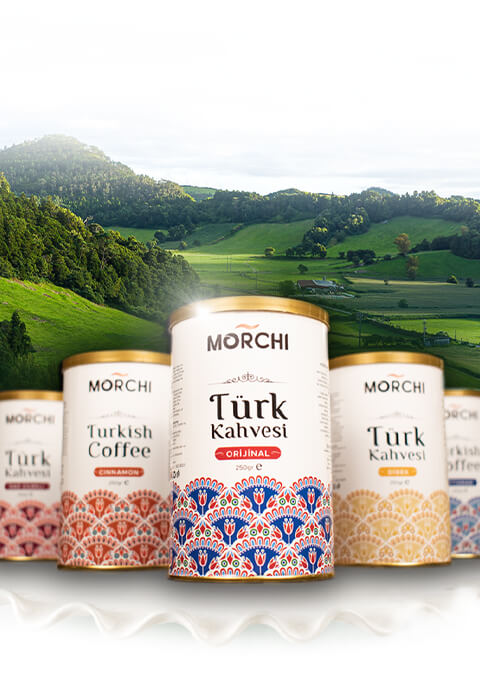
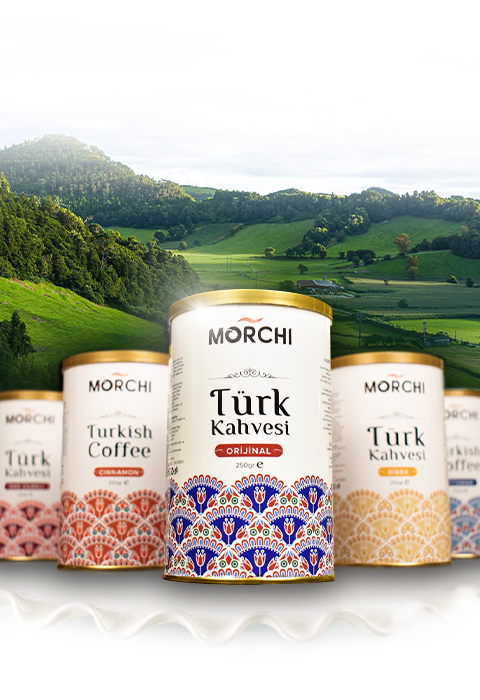
add map line

diff --git a/morchi/assets/css/style.css b/morchi/assets/css/style.css
@@ -852,12 +852,13 @@ img {
 .contact-image::after {
     content: '';
     position: absolute;
-    top: 0;
+    transform: rotate(180deg);
+    top: -1.0%;
     right: 0;
     left: 0;
     width: 100%;
     height: 30px;
-    background: url(../img/header.png);
+    background: url(../img/map-line.png);
     background-repeat: no-repeat;
     background-size: 100% 95%;
     z-index: 1;
@@ -866,13 +867,12 @@ img {
 .contact-image::before {
     content: '';
     position: absolute;
-    transform: rotate(180deg);
     bottom: -5%;
     right: 0;
     left: 0;
     width: 100%;
     height: 30px;
-    background: url(../img/header.png);
+    background: url(../img/map-line.png);
     background-repeat: no-repeat;
     background-size: 100% 95%;
     z-index: 1;
